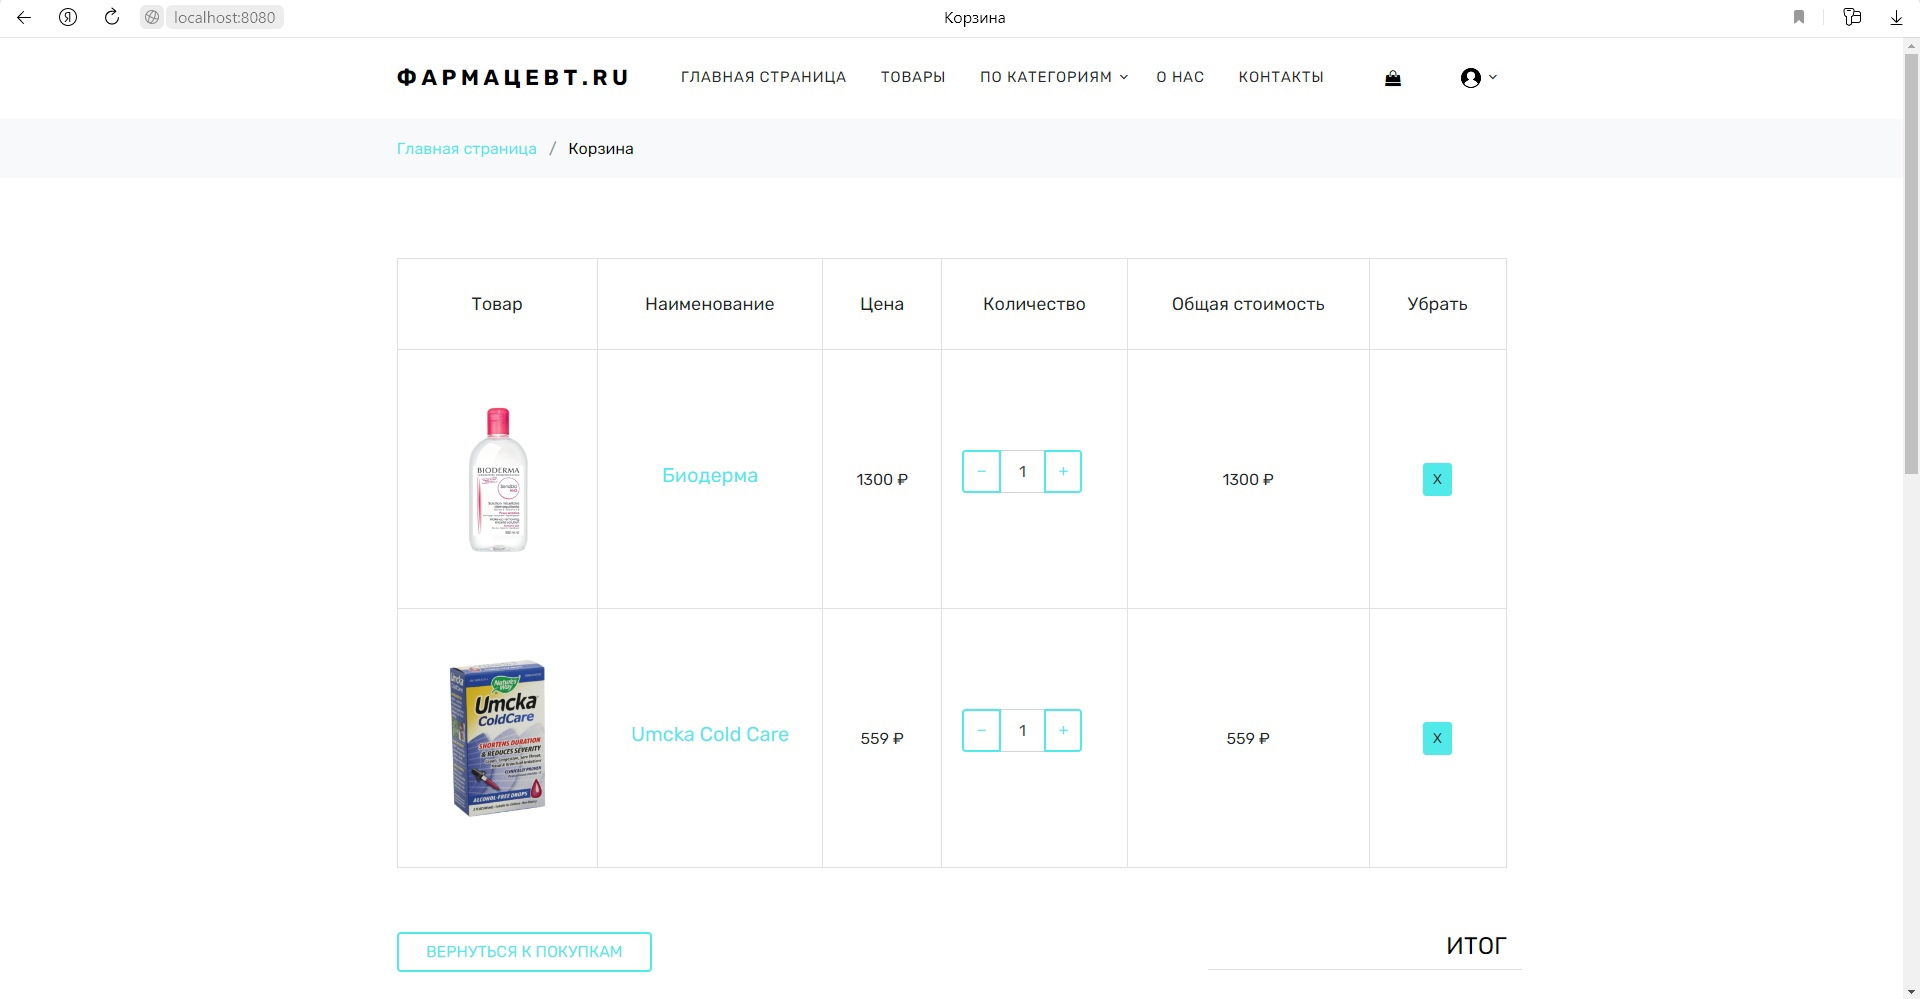
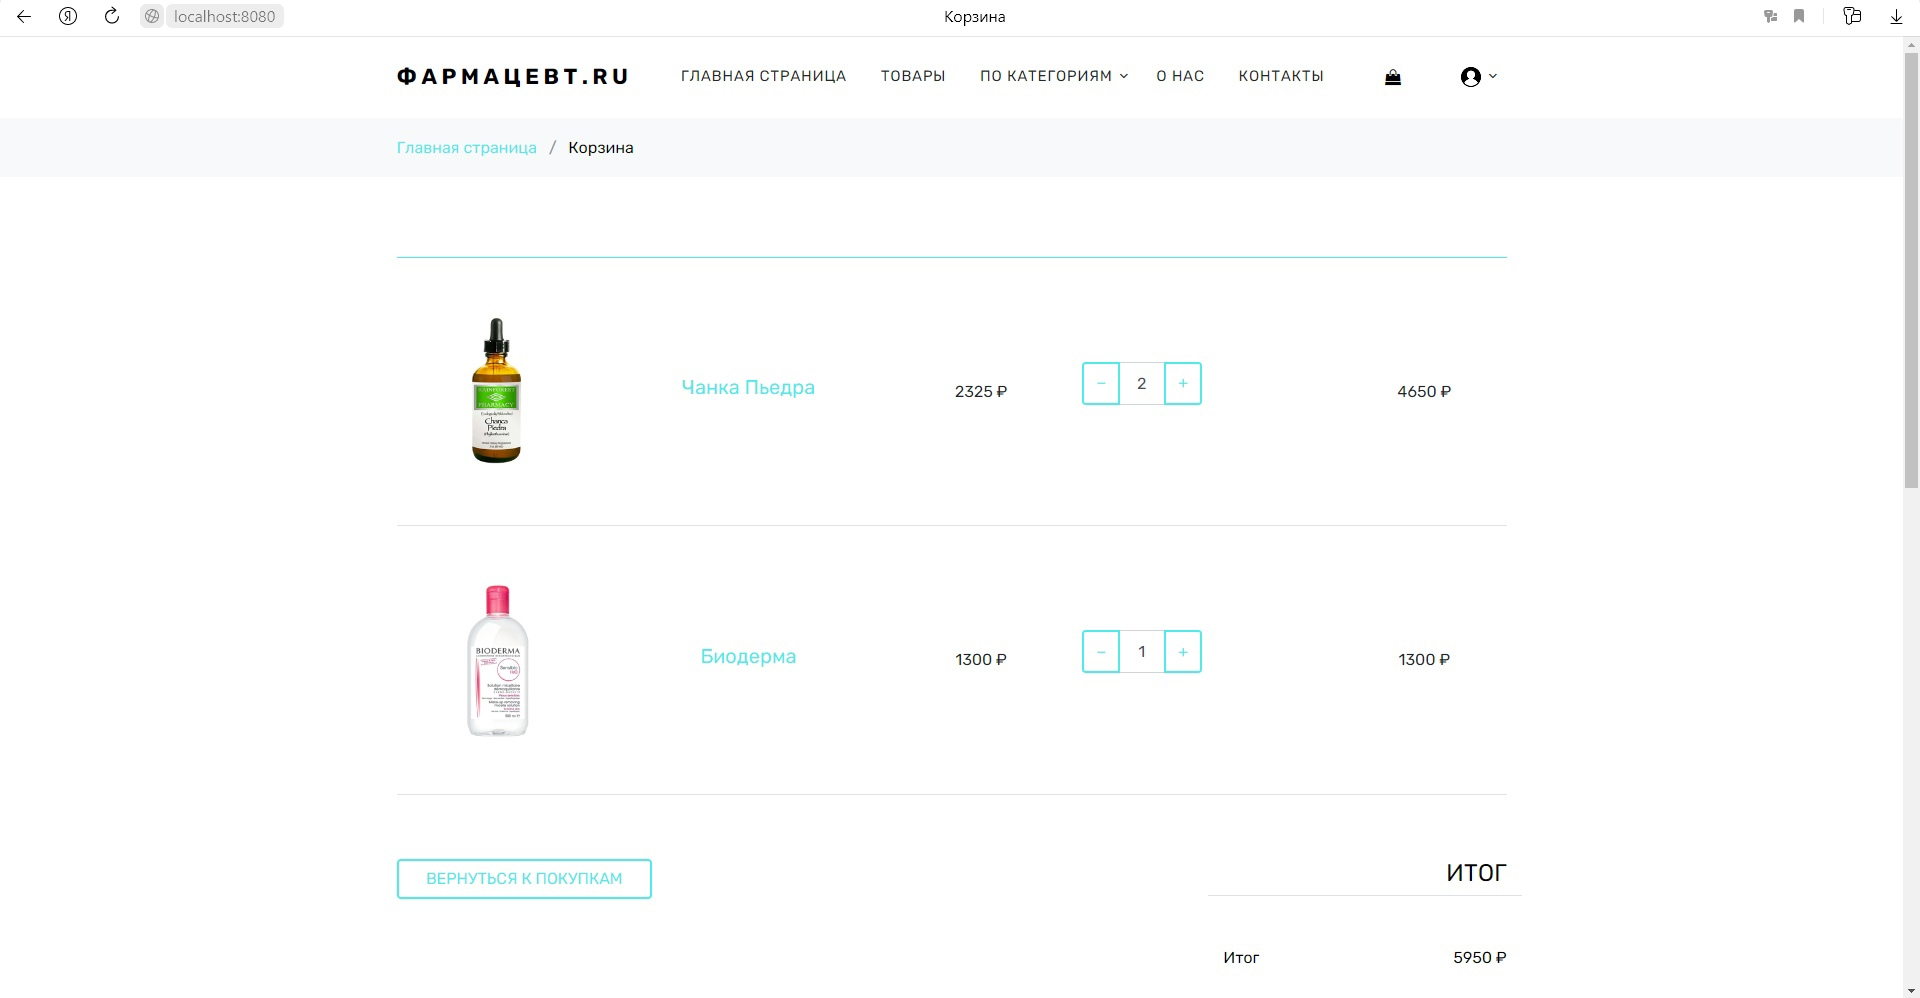
correcive

diff --git a/Pharmacy/Frontend/cart.html b/Pharmacy/Frontend/cart.html
@@ -9,6 +9,7 @@
   <meta name="viewport" content="width=device-width, initial-scale=1, shrink-to-fit=no">
 
   <link href="https://fonts.googleapis.com/css?family=Rubik:400,700|Crimson+Text:400,400i" rel="stylesheet">
+  <link rel="stylesheet" href="https://cdn.jsdelivr.net/npm/bootstrap@5.2.2/dist/css/bootstrap.min.css">
   <link rel="stylesheet" href="/fonts/icomoon/style.css">
 
   <link rel="stylesheet" href="/css/bootstrap.min.css">
@@ -89,7 +90,6 @@
       </div>
 
 
-
     <div class="bg-light py-3">
       <div class="container">
         <div class="row">
@@ -101,32 +101,22 @@
       </div>
     </div>
 
-
-
-
+ 
     <div class="site-section">
       <div class="container">
         <div class="row mb-5">
-          <form class="col-md-12" method="post">
+          <form class="col-md-12" method="get">
             <div class="site-blocks-table">
-              <table class="table table-bordered">
-                <thead>
-                  <tr>
-                    <th class="product-thumbnail">Товар</th>
-                    <th class="product-name">Наименование</th>
-                    <th class="product-price">Цена</th>
-                    <th class="product-quantity">Количество</th>
-                    <th class="product-total">Общая стоимость</th>
-                    <th class="product-remove">Убрать</th>
-                  </tr>
-                </thead>
+              <table class="table">
                 <tbody>
                   <tr>
 
                     {{range .Products }}
 
                     <td class="product-thumbnail">
-                      <a href="/shop_single?id={{ .Product_Id }}"> <img src="/images/products/{{ .Image }}" alt="Image" class="img-fluid"> </a>
+                      <div class="row align-items-center">
+                          <a href="/shop_single?id={{ .Product_Id }}"> <img src="/images/products/{{ .Image }}" alt="Image" class="img-fluid"> </a>
+                      </div>
                     </td>
                     <td class="product-name">
                       <h2 class="h5 text-black"><a href="/shop_single?id={{ .Product_Id}}">{{ .Name}}</a></h2>
@@ -138,14 +128,13 @@
                           <button  onclick="window.location='/MinusKoll/{{ .Product_Id }}?koll={{ .Product_Koll }}'" class="btn btn-outline-primary js-btn-minus" type="button">&minus;</button>
                         </div>
                         <input type="text" class="form-control text-center" value="{{.Product_Koll }}" placeholder=""
-                          aria-label="Example text with button addon" aria-describedby="button-addon1" id="koll" name="koll">
+                          aria-label="Example text with button addon" aria-describedby="button-addon1" id="koll" name="koll" readonly style="background-color: white;">
                         <div class="input-group-append">
                           <button  onclick="window.location='/AddKoll/{{ .Product_Id }}?koll={{ .Product_Koll }}'" class="btn btn-outline-primary js-btn-plus" type="button">&plus;</button>
                         </div>
                       </div>
                     </td>
                     <td>{{ .Product_amount }} ₽</td>
-                    <td><a href="/DeleteFromCart/{{ .Product_Id }}" class="btn btn-primary height-auto btn-sm">X</a></td>
                   </tr>
 
                   {{ end }}

diff --git a/Pharmacy/Frontend/checkout.html b/Pharmacy/Frontend/checkout.html
@@ -171,17 +171,15 @@
                       <th>Стоимость</th>
                     </thead>
                     <tbody>
+                      {{range .Products }}
                       <tr>
-                        <td>Биодерма <strong class="mx-2">x</strong> 1</td>
-                        <td>1300 ₽</td>
+                        <td>{{ .Name}}<strong class="mx-2">x</strong>{{.Product_Koll }}</td>
+                        <td>{{ .Product_amount }} ₽</td>
                       </tr>
-                      <tr>
-                        <td>Umcka Cold Care <strong class="mx-2">x</strong> 1</td>
-                        <td>559 ₽</td>
-                      </tr>
+                      {{ end }}
                       <tr>
                         <td class="text-black font-weight-bold"><strong>Итог</strong></td>
-                        <td class="text-black font-weight-bold"><strong>1859 ₽</strong></td>
+                        <td class="text-black font-weight-bold"><strong>{{ .Total }} ₽</strong></td>
                       </tr>
                     </tbody>
                   </table>

diff --git a/Pharmacy/Frontend/shop_single.html b/Pharmacy/Frontend/shop_single.html
@@ -127,7 +127,7 @@
                   <button  onclick="window.location='/MinusKoll/{{ .Product_Id }}?koll={{ .Product_Koll }}'" class="btn btn-outline-primary js-btn-minus" type="button">&minus;</button>
                 </div>
                 <input type="text" id="koll" name="koll" class="form-control text-center" value="{{ .Product_Koll }}" placeholder=""
-                  aria-label="Example text with button addon" aria-describedby="button-addon1">
+                  aria-label="Example text with button addon" aria-describedby="button-addon1" readonly style="background-color: white;">
                 <div class="input-group-append">
                   <button onclick="window.location='/AddKoll/{{ .Product_Id }}?koll={{ .Product_Koll }}'" class="btn btn-outline-primary js-btn-plus" type="button">&plus;</button>
                 </div>

diff --git a/Pharmacy/internal/handlers/Person_handlers.go b/Pharmacy/internal/handlers/Person_handlers.go
@@ -188,9 +188,24 @@ func Contact(c *gin.Context) {
 
 //Страница оформления заказа
 func Checkout(c *gin.Context) {
+	Products, total, err := Logic.UserCart()
+	if err != nil {
+		c.HTML(400, "400", gin.H{
+			"Error": err.Error(),
+		})
+		return
+	}
+	if len(Products) == 0 {
+		c.HTML(200, "400", gin.H{
+			"Error": "Невозможно оформить заказ, в корзине ничего нет!",
+		})
+		return
+	}
 	c.HTML(200, "checkout", gin.H{
-		"Role":    Logic.Role,
-		"User_id": Logic.User_id,
+		"Role":     Logic.Role,
+		"Products": Products,
+		"Total":    total,
+		"User_id":  Logic.User_id,
 	})
 }
 
